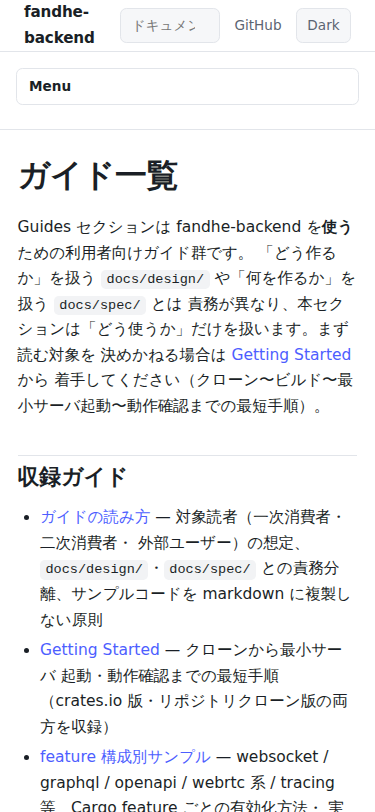
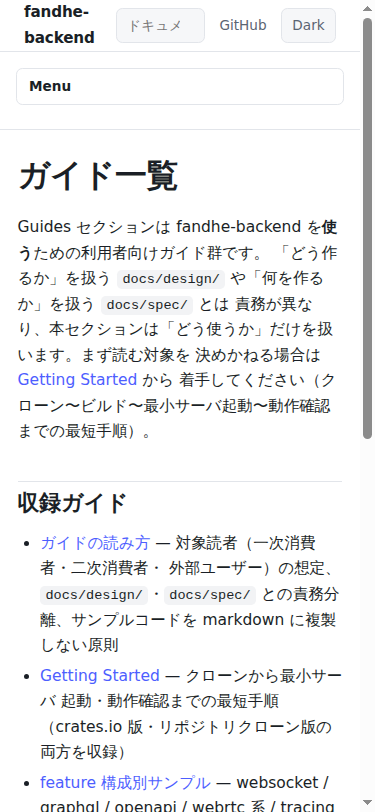
fix(global): 視覚確認スクリプトの scrollbar 非表示フラグを修正する
`scripts/docs-site-visual.sh` が `--hide-scrollbars=false` を渡していたが、
Chromium の `--hide-scrollbars` は値なしプレゼンス判定スイッチのため `=false`
は無効化にならず、意図に反してスクロールバーが常に非表示のまま撮影されて
いた。観点 4（横スクロール非発生）の証跡がその主張を実証できていなかった
（PR #413 Cursor Bugbot 指摘）。フラグ自体を削除し（Chromium 既定でスクロール
バー表示）、`docs/acceptance/assets/issue399/` の証跡一式を再撮影、レポートに
発見事項として追記した。

diff --git a/docs/acceptance/issue399-docs-site-visual.md b/docs/acceptance/issue399-docs-site-visual.md
@@ -41,6 +41,11 @@ fail-closed 可視化）と突き合わせて記録する。
 **FAIL 0 件・WARN 0 件**（機械テスト `cargo test -p fandhe-backend-docs-site` は無変更で回帰なし）。
 撮影中に **3 カラムレイアウトの右側 TOC が全 breakpoint で描画されない致命的な CSS カスケード順序
 バグ**を検出し、`site/assets/site.css` の 1 箇所で本 PR 内で修正した（「発見事項と対応」節参照）。
+また PR #413 の Cursor Bugbot レビューで、`scripts/docs-site-visual.sh` の撮影コマンドが
+`--hide-scrollbars=false` を渡していたためスクロールバーが常に非表示のまま撮影されており、
+観点 4（横スクロール非発生）の証跡がその主張を実証できていない指摘を受けた。当該フラグを
+撮影コマンドから削除し（Chromium の `--hide-scrollbars` は値なしプレゼンス判定スイッチで
+`=false` は無効化にならない）、全証跡を再撮影した（「発見事項と対応」節 #2 参照）。
 
 ## 再現手順
 
@@ -129,7 +134,7 @@ light/dark 全幅ショットに検索窓（プレースホルダ「ドキュメ
 | 1 | 1440px で 3 カラム（サイドバー / 本文 / 右 TOC）が成立 | サイドバー・本文・右 TOC の 3 列が視認できる | P1-1440・P4-1440 | **軽微・本 PR で修正済み**（下記参照） |
 | 2 | 1024px で右 TOC が消え 2 カラムになり本文幅が破綻しない | TOC 列が非表示、本文が自然に幅を使う | P1-1024 | 問題なし |
 | 3 | 375px で単列化し、サイドバーがトグル折りたたみで到達可能 | 単列 + `Menu` トグルボタンでサイドバー開閉 | P1-375・N2 | 問題なし |
-| 4 | いずれの幅でも横スクロールが発生しない | ページ全体に横スクロールバーが出ない | P3・P4 全ショット + `site/assets/site.css` の `overflow-x: auto` 宣言（596・608 行目、コードブロック・表に適用） | 問題なし（2 系統証跡: 画像でオーバーフロー発生の有無、CSS 宣言でスクロール可能であることを担保） |
+| 4 | いずれの幅でも横スクロールが発生しない | ページ全体に横スクロールバーが出ない | P3・P4 全ショット + `site/assets/site.css` の `overflow-x: auto` 宣言（596・608 行目、コードブロック・表に適用） | 問題なし（2 系統証跡: 画像でオーバーフロー発生の有無、CSS 宣言でスクロール可能であることを担保。スクロールバーを実際に表示させた状態で再撮影済み、下記「発見事項と対応」節 #2 参照） |
 | 5 | ダークテーマで全要素（本文・コード・表・リンク・境界線）が可読 | コントラスト十分・要素の視認性が保たれる | 全 dark ショット（P1/P2/P3/P4） | 問題なし |
 | 6 | ヘッダーに検索窓・テーマトグル・GitHub リンクが両テーマで表示 | 3 要素すべてヘッダー右側に視認できる | P1-1440 light/dark | 問題なし |
 | 7 | 右 TOC の見出し階層（h2/h3）が正しく反映される | インデント段差で h2/h3 が区別できる | P4-1440-light | 問題なし（修正後に確認。`2.1 request`〜`2.10 buffer` の h3 群が h2 配下にインデント表示） |
@@ -190,6 +195,7 @@ light/dark 全幅ショットに検索窓（プレースホルダ「ドキュメ
 | # | 内容 | 区分 | 対応 |
 |---|---|---|---|
 | 1 | 右側 TOC（3 カラムレイアウトの目玉機能）が CSS カスケード順序バグにより全 breakpoint で描画されない | 軽微かつスコープ内（`site/assets/site.css` 1 箇所の宣言順序修正） | **本 PR で修正済み**。修正前後の差分は本レポート「観点 1 の詳細」参照。修正後の再撮影で 1440px の 3 カラム描画を確認 |
+| 2 | `scripts/docs-site-visual.sh` の撮影コマンドが `--hide-scrollbars=false` を渡していたが、Chromium の `--hide-scrollbars` は値なしプレゼンス判定スイッチ（`base::CommandLine::HasSwitch`）のため `=false` を渡しても無効化されず、スクロールバーが常に非表示のまま撮影されていた。観点 4（横スクロール非発生）の証跡がその主張を実証できていなかった（PR #413 Cursor Bugbot 指摘） | 軽微かつスコープ内（`scripts/docs-site-visual.sh` のフラグ削除） | **本 PR で修正済み**。フラグ自体を撮影コマンドから削除し（Chromium 既定でスクロールバー表示）、全証跡を再撮影した。再撮影後の P4-1440-light 等でページ右端のスクロールバーが視認できることを確認済み |
 
 上記以外に、8 観点の目視確認で新たな未解消の見た目上の問題（レイアウト崩れ・コントラスト
 不足・要素の欠落）は検出しなかった。
